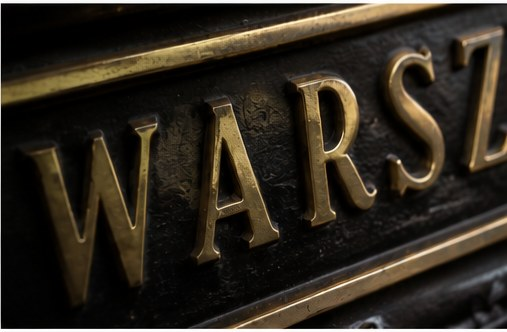
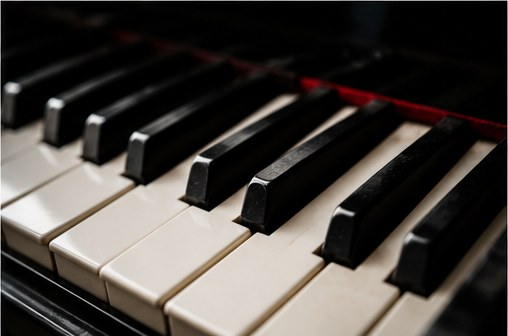
Design pass per mockup: Ephesis script for 'differently', rounded quote marks, new event covers (amber/azulejo/piano)

diff --git a/alts-redesign-home.html b/alts-redesign-home.html
@@ -55,8 +55,9 @@
   .hero-waves.left{left:-540px;bottom:-520px;width:950px}
   .hero-waves.right{right:-600px;top:-560px;width:1100px}
   .hero-inner{position:relative;z-index:3;width:100%;padding-top:150px;padding-bottom:110px;color:#fff}
+@font-face{font-family:'Ephesis';src:url('assets/Ephesis-Regular.ttf') format('truetype');font-display:swap}
   .hero h1{font-family:var(--sans);font-weight:300;font-size:clamp(44px,6.4vw,92px);line-height:1.06;letter-spacing:.01em}
-  .hero h1 em{font-family:var(--serif);font-style:italic;font-weight:500;letter-spacing:0}
+  .hero h1 em{font-family:'Ephesis',cursive;font-style:normal;font-weight:400;font-size:1.12em;letter-spacing:0}
   .hero-sub{margin-top:42px;max-width:520px}
   .hero-sub h2{font-family:var(--sans);font-weight:300;font-size:clamp(24px,2.6vw,34px);color:var(--peri-soft);line-height:1.25;margin-bottom:16px}
   .hero-sub p{font-size:18px;font-weight:500;line-height:1.75;color:#fff}
@@ -110,7 +111,7 @@
   @media(max-width:960px){.q-page{grid-template-columns:1fr}}
   .q-card{background:#fff;border-radius:14px;padding:38px 34px;box-shadow:0 18px 40px rgba(47,52,96,.10);display:flex;flex-direction:column}
   .q-mark{width:44px;margin-bottom:22px}
-  .q-mark svg{width:44px;height:34px;fill:var(--peri)}
+  .q-mark svg{width:46px;height:29px;fill:var(--peri)}
   .q-card blockquote{font-family:var(--serif);font-size:16.5px;line-height:1.65;color:var(--ink)}
   .q-div{width:64px;height:1px;background:var(--peri-soft);margin:26px 0 22px}
   .q-who{display:flex;gap:16px;align-items:center;margin-top:auto}
@@ -142,7 +143,7 @@
   .f-bottom{display:flex;justify-content:space-between;align-items:flex-end;gap:20px;flex-wrap:wrap}
   .f-bottom .copy{font-size:13px;font-weight:300;color:rgba(255,255,255,.85);line-height:1.6}
   .f-motto{font-family:var(--sans);font-weight:300;font-size:17px}
-  .f-motto em{font-family:var(--serif);font-style:italic;font-weight:500}
+  .f-motto em{font-family:'Ephesis',cursive;font-style:normal;font-weight:400;font-size:1.25em}
 
   /* ================= reveal ================= */
   .reveal{opacity:0;transform:translateY(26px);transition:opacity .8s ease,transform .8s ease}
@@ -306,7 +307,7 @@
     <div class="q-track" id="qtrack">
     <div class="q-page">
       <div class="q-card reveal">
-        <div class="q-mark"><svg viewBox="0 0 44 34"><path d="M0 34V20.4C0 14.4 1.5 9.6 4.4 6 7.3 2.3 11.6.3 17.2 0l1.6 6.2c-3.3.5-5.7 1.6-7.2 3.3-1.5 1.7-2.3 3.8-2.4 6.3H19V34H0Zm25 0V20.4c0-6 1.5-10.8 4.4-14.4C32.3 2.3 36.6.3 42.2 0l1.6 6.2c-3.3.5-5.7 1.6-7.2 3.3-1.5 1.7-2.3 3.8-2.4 6.3H44V34H25Z"/></svg></div>
+        <div class="q-mark"><svg viewBox="4 7 16 10"><path transform="rotate(180 12 12)" d="M7.17 17c.51 0 .98-.29 1.2-.74l1.42-2.84c.14-.28.21-.58.21-.89V8c0-.55-.45-1-1-1H5c-.55 0-1 .45-1 1v4c0 .55.45 1 1 1h2l-1.03 2.06c-.45.89.2 1.94 1.2 1.94zm10 0c.51 0 .98-.29 1.2-.74l1.42-2.84c.14-.28.21-.58.21-.89V8c0-.55-.45-1-1-1h-4c-.55 0-1 .45-1 1v4c0 .55.45 1 1 1h2l-1.03 2.06c-.45.89.2 1.94 1.2 1.94z"/></svg></div>
         <blockquote>«A huge thank you to the entire ALTS team for your dedication and nicely organized program! I loved this quality intimate event with well selected buyers and a good mix of one-to-one 15 minutes meetings plus entertainment. I look forward to participating in your next event and wish you all the best in your upcoming editions.»</blockquote>
         <div class="q-div"></div>
         <div class="q-who">
@@ -315,7 +316,7 @@
         </div>
       </div>
       <div class="q-card reveal">
-        <div class="q-mark"><svg viewBox="0 0 44 34"><path d="M0 34V20.4C0 14.4 1.5 9.6 4.4 6 7.3 2.3 11.6.3 17.2 0l1.6 6.2c-3.3.5-5.7 1.6-7.2 3.3-1.5 1.7-2.3 3.8-2.4 6.3H19V34H0Zm25 0V20.4c0-6 1.5-10.8 4.4-14.4C32.3 2.3 36.6.3 42.2 0l1.6 6.2c-3.3.5-5.7 1.6-7.2 3.3-1.5 1.7-2.3 3.8-2.4 6.3H44V34H25Z"/></svg></div>
+        <div class="q-mark"><svg viewBox="4 7 16 10"><path transform="rotate(180 12 12)" d="M7.17 17c.51 0 .98-.29 1.2-.74l1.42-2.84c.14-.28.21-.58.21-.89V8c0-.55-.45-1-1-1H5c-.55 0-1 .45-1 1v4c0 .55.45 1 1 1h2l-1.03 2.06c-.45.89.2 1.94 1.2 1.94zm10 0c.51 0 .98-.29 1.2-.74l1.42-2.84c.14-.28.21-.58.21-.89V8c0-.55-.45-1-1-1h-4c-.55 0-1 .45-1 1v4c0 .55.45 1 1 1h2l-1.03 2.06c-.45.89.2 1.94 1.2 1.94z"/></svg></div>
         <blockquote>«It was a fantastic show and very well organised, the team did a great job. The Exhibitors were a good variety and I enjoyed that the meetings did not feel rushed. The hotel served as a great venue for the meetings. The evening events were of a very good standard. All in all a great show, and I look forward to the next one!»</blockquote>
         <div class="q-div"></div>
         <div class="q-who">
@@ -324,7 +325,7 @@
         </div>
       </div>
       <div class="q-card reveal">
-        <div class="q-mark"><svg viewBox="0 0 44 34"><path d="M0 34V20.4C0 14.4 1.5 9.6 4.4 6 7.3 2.3 11.6.3 17.2 0l1.6 6.2c-3.3.5-5.7 1.6-7.2 3.3-1.5 1.7-2.3 3.8-2.4 6.3H19V34H0Zm25 0V20.4c0-6 1.5-10.8 4.4-14.4C32.3 2.3 36.6.3 42.2 0l1.6 6.2c-3.3.5-5.7 1.6-7.2 3.3-1.5 1.7-2.3 3.8-2.4 6.3H44V34H25Z"/></svg></div>
+        <div class="q-mark"><svg viewBox="4 7 16 10"><path transform="rotate(180 12 12)" d="M7.17 17c.51 0 .98-.29 1.2-.74l1.42-2.84c.14-.28.21-.58.21-.89V8c0-.55-.45-1-1-1H5c-.55 0-1 .45-1 1v4c0 .55.45 1 1 1h2l-1.03 2.06c-.45.89.2 1.94 1.2 1.94zm10 0c.51 0 .98-.29 1.2-.74l1.42-2.84c.14-.28.21-.58.21-.89V8c0-.55-.45-1-1-1h-4c-.55 0-1 .45-1 1v4c0 .55.45 1 1 1h2l-1.03 2.06c-.45.89.2 1.94 1.2 1.94z"/></svg></div>
         <blockquote>«Working with ALTS has been a fantastic experience. The events are well-organized, informative, and provide valuable networking opportunities. I've gained valuable insights and connections that have positively impacted our work.»</blockquote>
         <div class="q-div"></div>
         <div class="q-who">
@@ -335,7 +336,7 @@
     </div><!-- /q-page 1 -->
     <div class="q-page">
       <div class="q-card">
-        <div class="q-mark"><svg viewBox="0 0 44 34"><path d="M0 34V20.4C0 14.4 1.5 9.6 4.4 6 7.3 2.3 11.6.3 17.2 0l1.6 6.2c-3.3.5-5.7 1.6-7.2 3.3-1.5 1.7-2.3 3.8-2.4 6.3H19V34H0Zm25 0V20.4c0-6 1.5-10.8 4.4-14.4C32.3 2.3 36.6.3 42.2 0l1.6 6.2c-3.3.5-5.7 1.6-7.2 3.3-1.5 1.7-2.3 3.8-2.4 6.3H44V34H25Z"/></svg></div>
+        <div class="q-mark"><svg viewBox="4 7 16 10"><path transform="rotate(180 12 12)" d="M7.17 17c.51 0 .98-.29 1.2-.74l1.42-2.84c.14-.28.21-.58.21-.89V8c0-.55-.45-1-1-1H5c-.55 0-1 .45-1 1v4c0 .55.45 1 1 1h2l-1.03 2.06c-.45.89.2 1.94 1.2 1.94zm10 0c.51 0 .98-.29 1.2-.74l1.42-2.84c.14-.28.21-.58.21-.89V8c0-.55-.45-1-1-1h-4c-.55 0-1 .45-1 1v4c0 .55.45 1 1 1h2l-1.03 2.06c-.45.89.2 1.94 1.2 1.94z"/></svg></div>
         <blockquote>«Participating in ALTS as a supplier has been a highly positive experience. The events are well-organized, with a professional yet relaxed atmosphere that fosters quality connections with travel advisors and industry professionals. Logistics are smooth, and the team behind ALTS is supportive, responsive, and detail oriented.»</blockquote>
         <div class="q-div"></div>
         <div class="q-who">
@@ -344,7 +345,7 @@
         </div>
       </div>
       <div class="q-card">
-        <div class="q-mark"><svg viewBox="0 0 44 34"><path d="M0 34V20.4C0 14.4 1.5 9.6 4.4 6 7.3 2.3 11.6.3 17.2 0l1.6 6.2c-3.3.5-5.7 1.6-7.2 3.3-1.5 1.7-2.3 3.8-2.4 6.3H19V34H0Zm25 0V20.4c0-6 1.5-10.8 4.4-14.4C32.3 2.3 36.6.3 42.2 0l1.6 6.2c-3.3.5-5.7 1.6-7.2 3.3-1.5 1.7-2.3 3.8-2.4 6.3H44V34H25Z"/></svg></div>
+        <div class="q-mark"><svg viewBox="4 7 16 10"><path transform="rotate(180 12 12)" d="M7.17 17c.51 0 .98-.29 1.2-.74l1.42-2.84c.14-.28.21-.58.21-.89V8c0-.55-.45-1-1-1H5c-.55 0-1 .45-1 1v4c0 .55.45 1 1 1h2l-1.03 2.06c-.45.89.2 1.94 1.2 1.94zm10 0c.51 0 .98-.29 1.2-.74l1.42-2.84c.14-.28.21-.58.21-.89V8c0-.55-.45-1-1-1h-4c-.55 0-1 .45-1 1v4c0 .55.45 1 1 1h2l-1.03 2.06c-.45.89.2 1.94 1.2 1.94z"/></svg></div>
         <blockquote>«After nearly 15 years in this industry, I have to congratulate you, in all caps, for the incredible work you did. The quality of the suppliers, the flawless organization and scheduling, and the overall standard of the event were truly remarkable. I cherish many moments from this professional gathering and deeply value the meaningful connections I made.»</blockquote>
         <div class="q-div"></div>
         <div class="q-who">
@@ -353,7 +354,7 @@
         </div>
       </div>
       <div class="q-card">
-        <div class="q-mark"><svg viewBox="0 0 44 34"><path d="M0 34V20.4C0 14.4 1.5 9.6 4.4 6 7.3 2.3 11.6.3 17.2 0l1.6 6.2c-3.3.5-5.7 1.6-7.2 3.3-1.5 1.7-2.3 3.8-2.4 6.3H19V34H0Zm25 0V20.4c0-6 1.5-10.8 4.4-14.4C32.3 2.3 36.6.3 42.2 0l1.6 6.2c-3.3.5-5.7 1.6-7.2 3.3-1.5 1.7-2.3 3.8-2.4 6.3H44V34H25Z"/></svg></div>
+        <div class="q-mark"><svg viewBox="4 7 16 10"><path transform="rotate(180 12 12)" d="M7.17 17c.51 0 .98-.29 1.2-.74l1.42-2.84c.14-.28.21-.58.21-.89V8c0-.55-.45-1-1-1H5c-.55 0-1 .45-1 1v4c0 .55.45 1 1 1h2l-1.03 2.06c-.45.89.2 1.94 1.2 1.94zm10 0c.51 0 .98-.29 1.2-.74l1.42-2.84c.14-.28.21-.58.21-.89V8c0-.55-.45-1-1-1h-4c-.55 0-1 .45-1 1v4c0 .55.45 1 1 1h2l-1.03 2.06c-.45.89.2 1.94 1.2 1.94z"/></svg></div>
         <blockquote>«ALTS was an excellent opportunity to connect with high-quality, relevant suppliers who truly match the interests and needs of my clients. The event was perfectly organized, with a wonderful venue and a relaxed, yet professional atmosphere. I left feeling energized and confident about the partnerships and opportunities ahead.»</blockquote>
         <div class="q-div"></div>
         <div class="q-who">

diff --git a/index.html b/index.html
@@ -55,8 +55,9 @@
   .hero-waves.left{left:-540px;bottom:-520px;width:950px}
   .hero-waves.right{right:-600px;top:-560px;width:1100px}
   .hero-inner{position:relative;z-index:3;width:100%;padding-top:150px;padding-bottom:110px;color:#fff}
+@font-face{font-family:'Ephesis';src:url('assets/Ephesis-Regular.ttf') format('truetype');font-display:swap}
   .hero h1{font-family:var(--sans);font-weight:300;font-size:clamp(44px,6.4vw,92px);line-height:1.06;letter-spacing:.01em}
-  .hero h1 em{font-family:var(--serif);font-style:italic;font-weight:500;letter-spacing:0}
+  .hero h1 em{font-family:'Ephesis',cursive;font-style:normal;font-weight:400;font-size:1.12em;letter-spacing:0}
   .hero-sub{margin-top:42px;max-width:520px}
   .hero-sub h2{font-family:var(--sans);font-weight:300;font-size:clamp(24px,2.6vw,34px);color:var(--peri-soft);line-height:1.25;margin-bottom:16px}
   .hero-sub p{font-size:18px;font-weight:500;line-height:1.75;color:#fff}
@@ -110,7 +111,7 @@
   @media(max-width:960px){.q-page{grid-template-columns:1fr}}
   .q-card{background:#fff;border-radius:14px;padding:38px 34px;box-shadow:0 18px 40px rgba(47,52,96,.10);display:flex;flex-direction:column}
   .q-mark{width:44px;margin-bottom:22px}
-  .q-mark svg{width:44px;height:34px;fill:var(--peri)}
+  .q-mark svg{width:46px;height:29px;fill:var(--peri)}
   .q-card blockquote{font-family:var(--serif);font-size:16.5px;line-height:1.65;color:var(--ink)}
   .q-div{width:64px;height:1px;background:var(--peri-soft);margin:26px 0 22px}
   .q-who{display:flex;gap:16px;align-items:center;margin-top:auto}
@@ -142,7 +143,7 @@
   .f-bottom{display:flex;justify-content:space-between;align-items:flex-end;gap:20px;flex-wrap:wrap}
   .f-bottom .copy{font-size:13px;font-weight:300;color:rgba(255,255,255,.85);line-height:1.6}
   .f-motto{font-family:var(--sans);font-weight:300;font-size:17px}
-  .f-motto em{font-family:var(--serif);font-style:italic;font-weight:500}
+  .f-motto em{font-family:'Ephesis',cursive;font-style:normal;font-weight:400;font-size:1.25em}
 
   /* ================= reveal ================= */
   .reveal{opacity:0;transform:translateY(26px);transition:opacity .8s ease,transform .8s ease}
@@ -306,7 +307,7 @@
     <div class="q-track" id="qtrack">
     <div class="q-page">
       <div class="q-card reveal">
-        <div class="q-mark"><svg viewBox="0 0 44 34"><path d="M0 34V20.4C0 14.4 1.5 9.6 4.4 6 7.3 2.3 11.6.3 17.2 0l1.6 6.2c-3.3.5-5.7 1.6-7.2 3.3-1.5 1.7-2.3 3.8-2.4 6.3H19V34H0Zm25 0V20.4c0-6 1.5-10.8 4.4-14.4C32.3 2.3 36.6.3 42.2 0l1.6 6.2c-3.3.5-5.7 1.6-7.2 3.3-1.5 1.7-2.3 3.8-2.4 6.3H44V34H25Z"/></svg></div>
+        <div class="q-mark"><svg viewBox="4 7 16 10"><path transform="rotate(180 12 12)" d="M7.17 17c.51 0 .98-.29 1.2-.74l1.42-2.84c.14-.28.21-.58.21-.89V8c0-.55-.45-1-1-1H5c-.55 0-1 .45-1 1v4c0 .55.45 1 1 1h2l-1.03 2.06c-.45.89.2 1.94 1.2 1.94zm10 0c.51 0 .98-.29 1.2-.74l1.42-2.84c.14-.28.21-.58.21-.89V8c0-.55-.45-1-1-1h-4c-.55 0-1 .45-1 1v4c0 .55.45 1 1 1h2l-1.03 2.06c-.45.89.2 1.94 1.2 1.94z"/></svg></div>
         <blockquote>«A huge thank you to the entire ALTS team for your dedication and nicely organized program! I loved this quality intimate event with well selected buyers and a good mix of one-to-one 15 minutes meetings plus entertainment. I look forward to participating in your next event and wish you all the best in your upcoming editions.»</blockquote>
         <div class="q-div"></div>
         <div class="q-who">
@@ -315,7 +316,7 @@
         </div>
       </div>
       <div class="q-card reveal">
-        <div class="q-mark"><svg viewBox="0 0 44 34"><path d="M0 34V20.4C0 14.4 1.5 9.6 4.4 6 7.3 2.3 11.6.3 17.2 0l1.6 6.2c-3.3.5-5.7 1.6-7.2 3.3-1.5 1.7-2.3 3.8-2.4 6.3H19V34H0Zm25 0V20.4c0-6 1.5-10.8 4.4-14.4C32.3 2.3 36.6.3 42.2 0l1.6 6.2c-3.3.5-5.7 1.6-7.2 3.3-1.5 1.7-2.3 3.8-2.4 6.3H44V34H25Z"/></svg></div>
+        <div class="q-mark"><svg viewBox="4 7 16 10"><path transform="rotate(180 12 12)" d="M7.17 17c.51 0 .98-.29 1.2-.74l1.42-2.84c.14-.28.21-.58.21-.89V8c0-.55-.45-1-1-1H5c-.55 0-1 .45-1 1v4c0 .55.45 1 1 1h2l-1.03 2.06c-.45.89.2 1.94 1.2 1.94zm10 0c.51 0 .98-.29 1.2-.74l1.42-2.84c.14-.28.21-.58.21-.89V8c0-.55-.45-1-1-1h-4c-.55 0-1 .45-1 1v4c0 .55.45 1 1 1h2l-1.03 2.06c-.45.89.2 1.94 1.2 1.94z"/></svg></div>
         <blockquote>«It was a fantastic show and very well organised, the team did a great job. The Exhibitors were a good variety and I enjoyed that the meetings did not feel rushed. The hotel served as a great venue for the meetings. The evening events were of a very good standard. All in all a great show, and I look forward to the next one!»</blockquote>
         <div class="q-div"></div>
         <div class="q-who">
@@ -324,7 +325,7 @@
         </div>
       </div>
       <div class="q-card reveal">
-        <div class="q-mark"><svg viewBox="0 0 44 34"><path d="M0 34V20.4C0 14.4 1.5 9.6 4.4 6 7.3 2.3 11.6.3 17.2 0l1.6 6.2c-3.3.5-5.7 1.6-7.2 3.3-1.5 1.7-2.3 3.8-2.4 6.3H19V34H0Zm25 0V20.4c0-6 1.5-10.8 4.4-14.4C32.3 2.3 36.6.3 42.2 0l1.6 6.2c-3.3.5-5.7 1.6-7.2 3.3-1.5 1.7-2.3 3.8-2.4 6.3H44V34H25Z"/></svg></div>
+        <div class="q-mark"><svg viewBox="4 7 16 10"><path transform="rotate(180 12 12)" d="M7.17 17c.51 0 .98-.29 1.2-.74l1.42-2.84c.14-.28.21-.58.21-.89V8c0-.55-.45-1-1-1H5c-.55 0-1 .45-1 1v4c0 .55.45 1 1 1h2l-1.03 2.06c-.45.89.2 1.94 1.2 1.94zm10 0c.51 0 .98-.29 1.2-.74l1.42-2.84c.14-.28.21-.58.21-.89V8c0-.55-.45-1-1-1h-4c-.55 0-1 .45-1 1v4c0 .55.45 1 1 1h2l-1.03 2.06c-.45.89.2 1.94 1.2 1.94z"/></svg></div>
         <blockquote>«Working with ALTS has been a fantastic experience. The events are well-organized, informative, and provide valuable networking opportunities. I've gained valuable insights and connections that have positively impacted our work.»</blockquote>
         <div class="q-div"></div>
         <div class="q-who">
@@ -335,7 +336,7 @@
     </div><!-- /q-page 1 -->
     <div class="q-page">
       <div class="q-card">
-        <div class="q-mark"><svg viewBox="0 0 44 34"><path d="M0 34V20.4C0 14.4 1.5 9.6 4.4 6 7.3 2.3 11.6.3 17.2 0l1.6 6.2c-3.3.5-5.7 1.6-7.2 3.3-1.5 1.7-2.3 3.8-2.4 6.3H19V34H0Zm25 0V20.4c0-6 1.5-10.8 4.4-14.4C32.3 2.3 36.6.3 42.2 0l1.6 6.2c-3.3.5-5.7 1.6-7.2 3.3-1.5 1.7-2.3 3.8-2.4 6.3H44V34H25Z"/></svg></div>
+        <div class="q-mark"><svg viewBox="4 7 16 10"><path transform="rotate(180 12 12)" d="M7.17 17c.51 0 .98-.29 1.2-.74l1.42-2.84c.14-.28.21-.58.21-.89V8c0-.55-.45-1-1-1H5c-.55 0-1 .45-1 1v4c0 .55.45 1 1 1h2l-1.03 2.06c-.45.89.2 1.94 1.2 1.94zm10 0c.51 0 .98-.29 1.2-.74l1.42-2.84c.14-.28.21-.58.21-.89V8c0-.55-.45-1-1-1h-4c-.55 0-1 .45-1 1v4c0 .55.45 1 1 1h2l-1.03 2.06c-.45.89.2 1.94 1.2 1.94z"/></svg></div>
         <blockquote>«Participating in ALTS as a supplier has been a highly positive experience. The events are well-organized, with a professional yet relaxed atmosphere that fosters quality connections with travel advisors and industry professionals. Logistics are smooth, and the team behind ALTS is supportive, responsive, and detail oriented.»</blockquote>
         <div class="q-div"></div>
         <div class="q-who">
@@ -344,7 +345,7 @@
         </div>
       </div>
       <div class="q-card">
-        <div class="q-mark"><svg viewBox="0 0 44 34"><path d="M0 34V20.4C0 14.4 1.5 9.6 4.4 6 7.3 2.3 11.6.3 17.2 0l1.6 6.2c-3.3.5-5.7 1.6-7.2 3.3-1.5 1.7-2.3 3.8-2.4 6.3H19V34H0Zm25 0V20.4c0-6 1.5-10.8 4.4-14.4C32.3 2.3 36.6.3 42.2 0l1.6 6.2c-3.3.5-5.7 1.6-7.2 3.3-1.5 1.7-2.3 3.8-2.4 6.3H44V34H25Z"/></svg></div>
+        <div class="q-mark"><svg viewBox="4 7 16 10"><path transform="rotate(180 12 12)" d="M7.17 17c.51 0 .98-.29 1.2-.74l1.42-2.84c.14-.28.21-.58.21-.89V8c0-.55-.45-1-1-1H5c-.55 0-1 .45-1 1v4c0 .55.45 1 1 1h2l-1.03 2.06c-.45.89.2 1.94 1.2 1.94zm10 0c.51 0 .98-.29 1.2-.74l1.42-2.84c.14-.28.21-.58.21-.89V8c0-.55-.45-1-1-1h-4c-.55 0-1 .45-1 1v4c0 .55.45 1 1 1h2l-1.03 2.06c-.45.89.2 1.94 1.2 1.94z"/></svg></div>
         <blockquote>«After nearly 15 years in this industry, I have to congratulate you, in all caps, for the incredible work you did. The quality of the suppliers, the flawless organization and scheduling, and the overall standard of the event were truly remarkable. I cherish many moments from this professional gathering and deeply value the meaningful connections I made.»</blockquote>
         <div class="q-div"></div>
         <div class="q-who">
@@ -353,7 +354,7 @@
         </div>
       </div>
       <div class="q-card">
-        <div class="q-mark"><svg viewBox="0 0 44 34"><path d="M0 34V20.4C0 14.4 1.5 9.6 4.4 6 7.3 2.3 11.6.3 17.2 0l1.6 6.2c-3.3.5-5.7 1.6-7.2 3.3-1.5 1.7-2.3 3.8-2.4 6.3H19V34H0Zm25 0V20.4c0-6 1.5-10.8 4.4-14.4C32.3 2.3 36.6.3 42.2 0l1.6 6.2c-3.3.5-5.7 1.6-7.2 3.3-1.5 1.7-2.3 3.8-2.4 6.3H44V34H25Z"/></svg></div>
+        <div class="q-mark"><svg viewBox="4 7 16 10"><path transform="rotate(180 12 12)" d="M7.17 17c.51 0 .98-.29 1.2-.74l1.42-2.84c.14-.28.21-.58.21-.89V8c0-.55-.45-1-1-1H5c-.55 0-1 .45-1 1v4c0 .55.45 1 1 1h2l-1.03 2.06c-.45.89.2 1.94 1.2 1.94zm10 0c.51 0 .98-.29 1.2-.74l1.42-2.84c.14-.28.21-.58.21-.89V8c0-.55-.45-1-1-1h-4c-.55 0-1 .45-1 1v4c0 .55.45 1 1 1h2l-1.03 2.06c-.45.89.2 1.94 1.2 1.94z"/></svg></div>
         <blockquote>«ALTS was an excellent opportunity to connect with high-quality, relevant suppliers who truly match the interests and needs of my clients. The event was perfectly organized, with a wonderful venue and a relaxed, yet professional atmosphere. I left feeling energized and confident about the partnerships and opportunities ahead.»</blockquote>
         <div class="q-div"></div>
         <div class="q-who">

diff --git a/alts-event-uk-eu-lisbon.html b/alts-event-uk-eu-lisbon.html
@@ -151,7 +151,8 @@
   .f-bottom{display:flex;justify-content:space-between;align-items:flex-end;gap:20px;flex-wrap:wrap;font-size:13px}
   .f-bottom .copy{font-weight:300;color:rgba(255,255,255,.85);line-height:1.6}
   .f-motto{font-weight:300;font-size:17px}
-  .f-motto em{font-family:var(--serif);font-style:italic;font-weight:500}
+  @font-face{font-family:'Ephesis';src:url('assets/Ephesis-Regular.ttf') format('truetype');font-display:swap}
+  .f-motto em{font-family:'Ephesis',cursive;font-style:normal;font-weight:400;font-size:1.25em}
 
   .reveal{opacity:0;transform:translateY(26px);transition:opacity .8s ease,transform .8s ease}
   .reveal.on{opacity:1;transform:none}

diff --git a/assets/alts.css b/assets/alts.css
@@ -1,3 +1,4 @@
+@font-face{font-family:'Ephesis';src:url('Ephesis-Regular.ttf') format('truetype');font-display:swap}
 /* ALTS redesign — shared styles */
 :root{
   --peri:#8A8FD4;
@@ -259,7 +260,7 @@ footer hr{border:none;border-top:1px solid rgba(255,255,255,.25);margin:34px 0}
 .f-bottom{display:flex;justify-content:space-between;align-items:flex-end;gap:20px;flex-wrap:wrap;font-size:13px}
 .f-bottom .copy{font-weight:300;color:rgba(255,255,255,.85);line-height:1.6}
 .f-motto{font-weight:300;font-size:17px}
-.f-motto em{font-family:var(--serif);font-style:italic;font-weight:500}
+.f-motto em{font-family:'Ephesis',cursive;font-style:normal;font-weight:400;font-size:1.25em}
 
 /* ---------- reveal ---------- */
 .reveal{opacity:0;transform:translateY(26px);transition:opacity .8s ease,transform .8s ease}